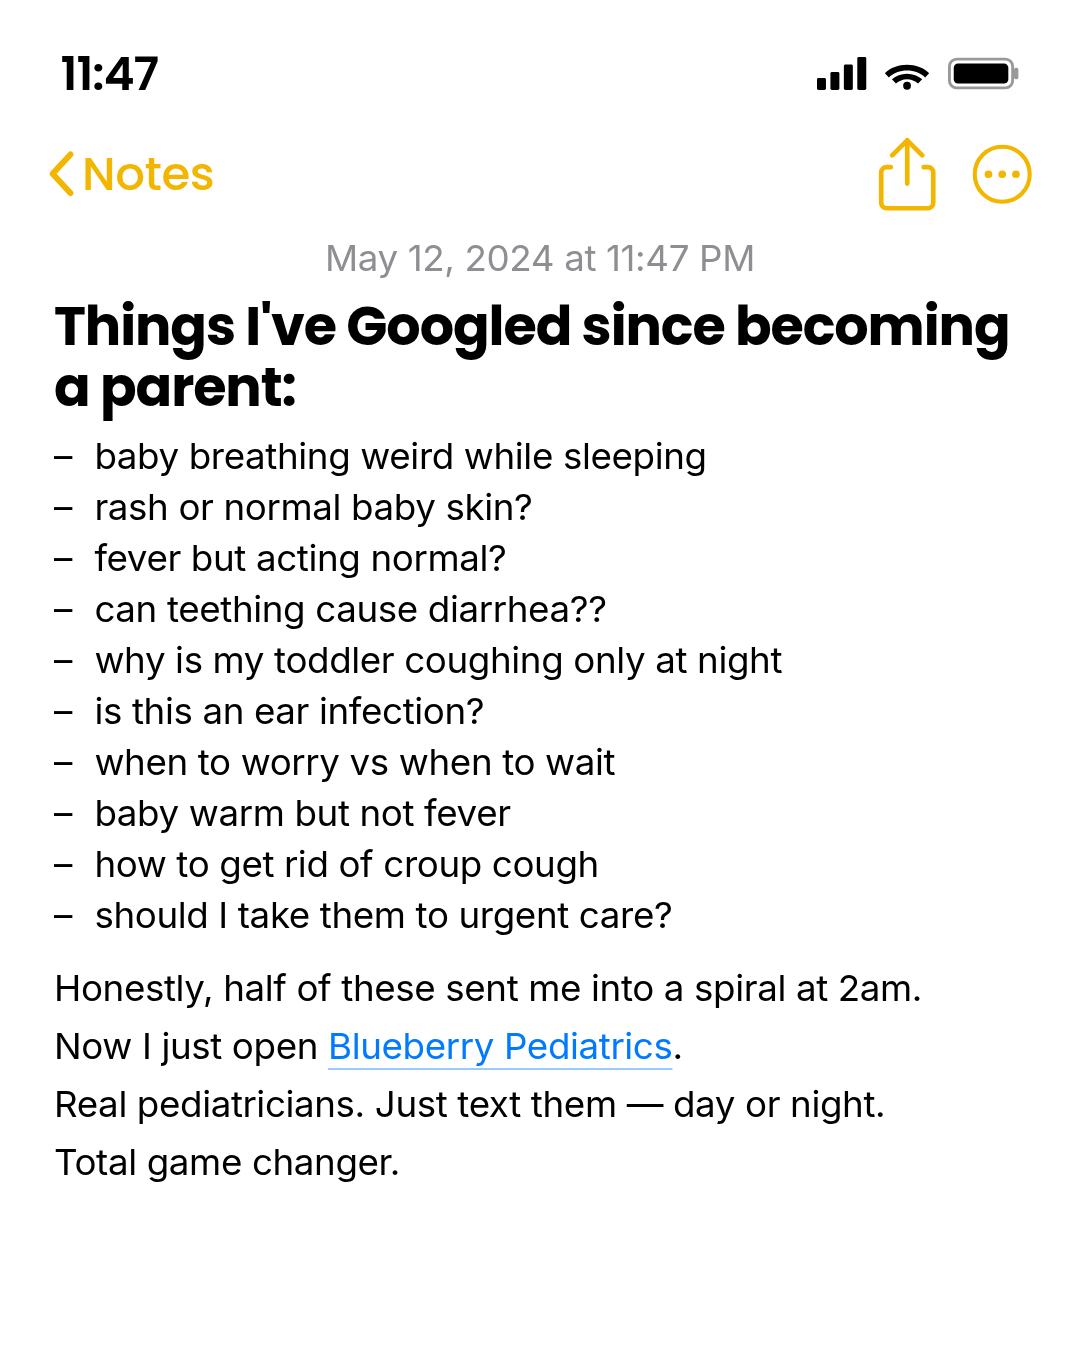
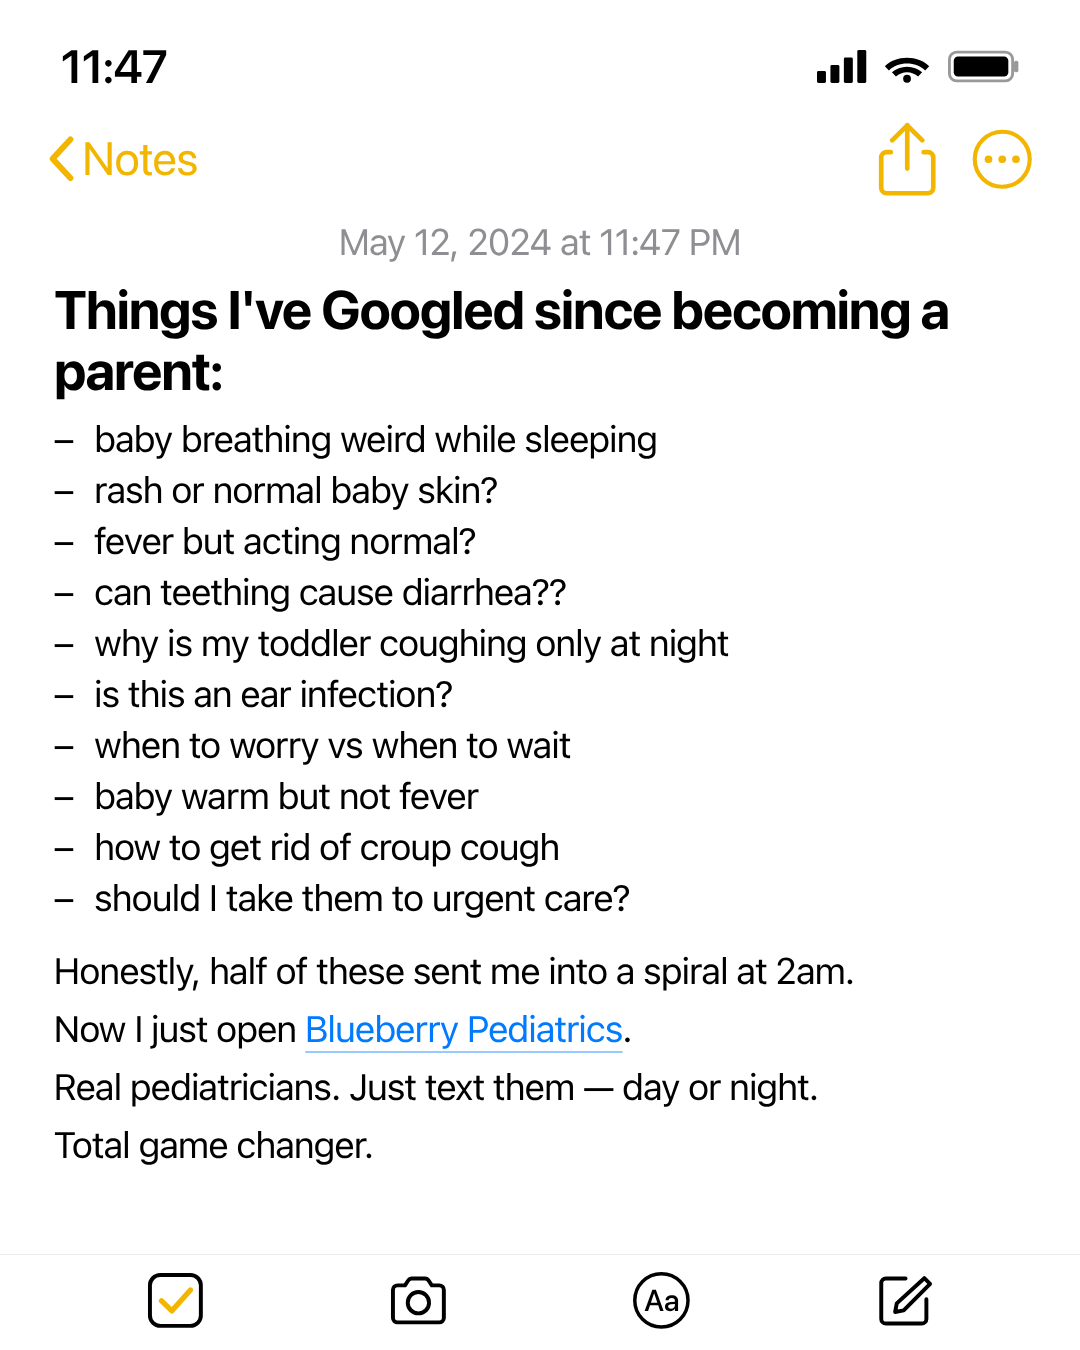
Refresh notes-screenshot renders — SF Pro font (PR #129)
Notes-screenshot template swapped from Inter to Apple's SF Pro
(SF Pro Display + SF Pro Text) on 2026-05-12 to match iOS-native
typography. Regenerated all three example renders (1:1, 4:5, 9:16)
against the new template.html and rebuilt index.html.

Source: harrisonmgordon/fb-ad-creative-agent#129 (7e245cb)

diff --git a/public/index.html b/public/index.html
@@ -206,7 +206,7 @@
       <span><strong>97</strong>image layouts</span>
       <span><strong>298</strong>example renders</span>
     </div>
-    <p class="meta-line">Generated 2026-05-11 · agent: Ember · source: /workspace/.claude/skills/{meta-ad-video, puppeteer-asset-render}</p>
+    <p class="meta-line">Generated 2026-05-12 · agent: Ember · source: /workspace/.claude/skills/{meta-ad-video, puppeteer-asset-render}</p>
   </div>
 </header>
 
